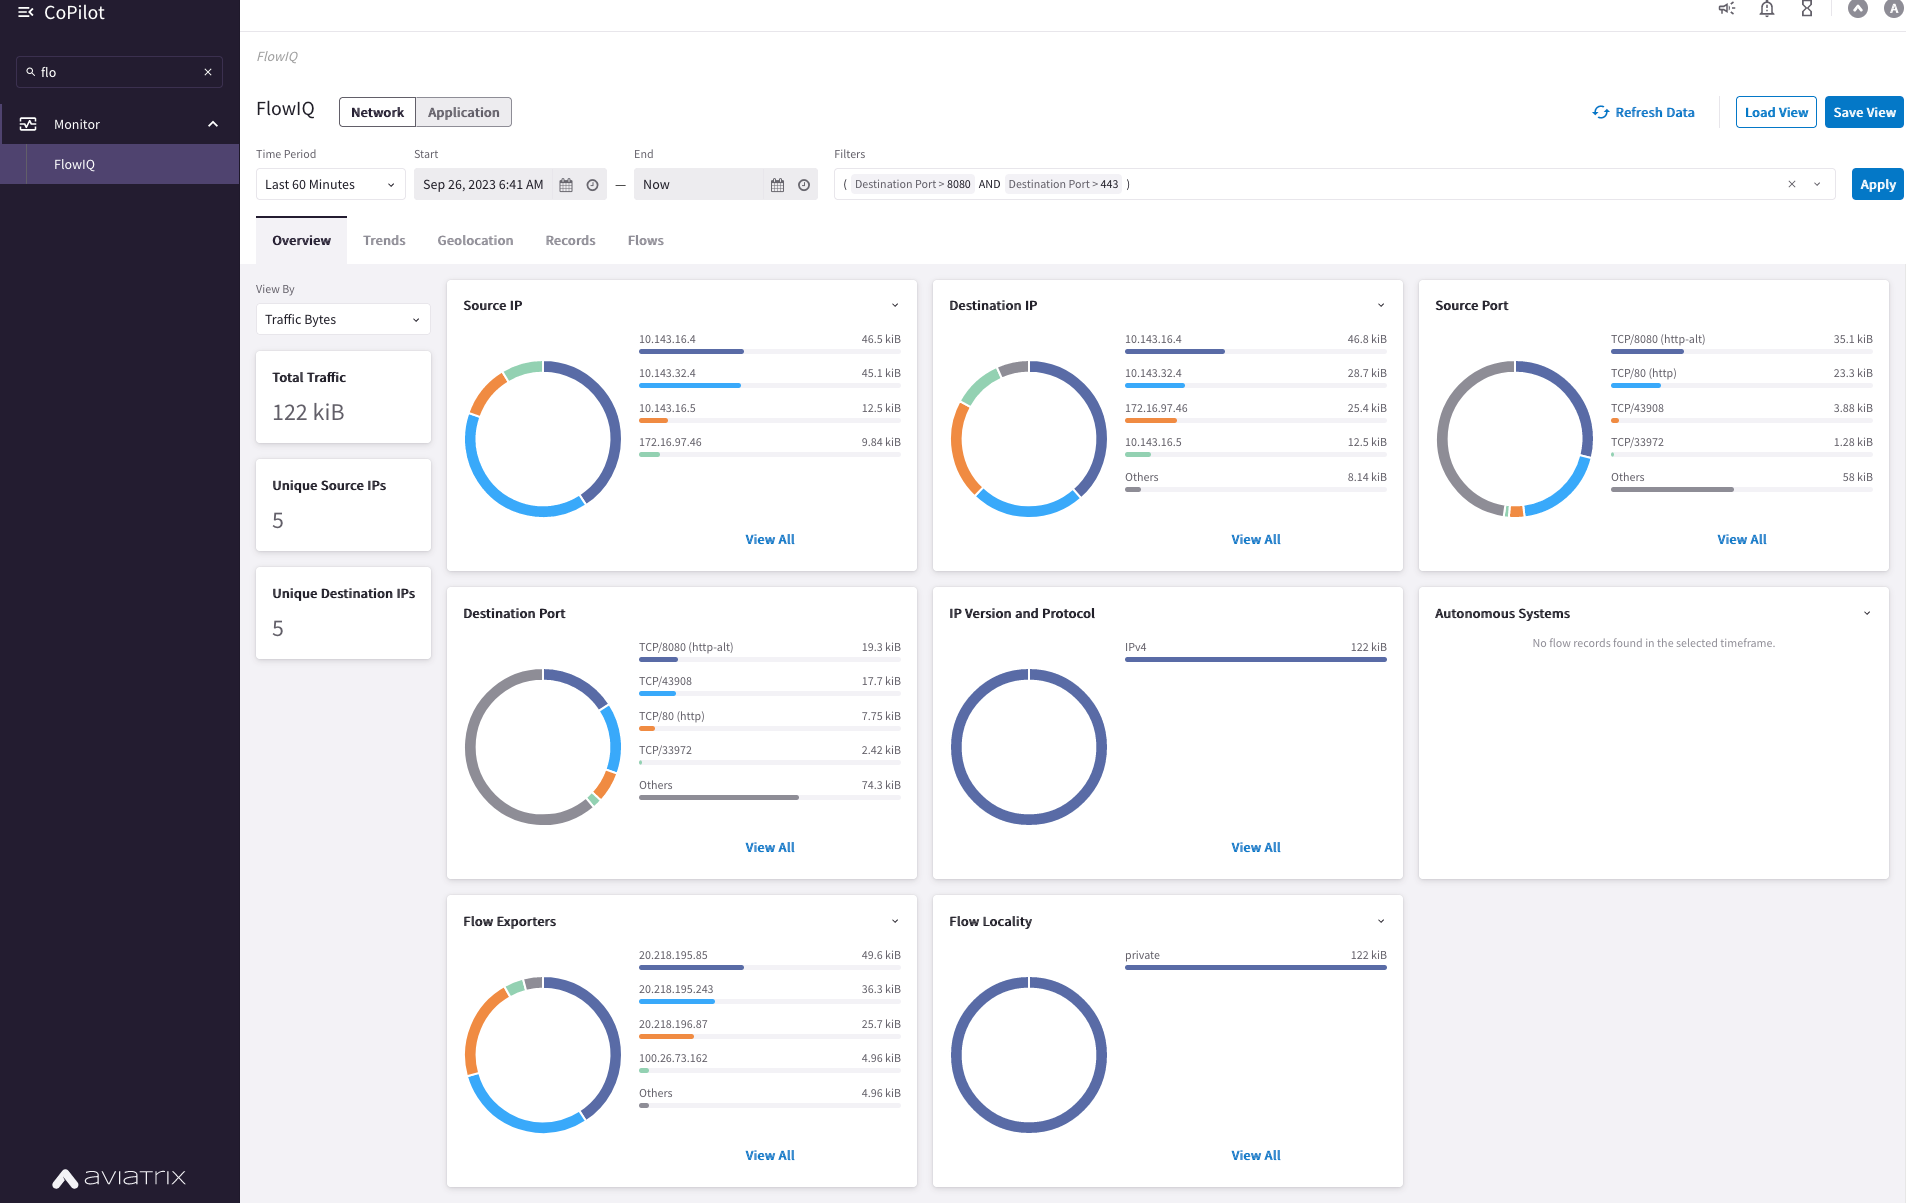
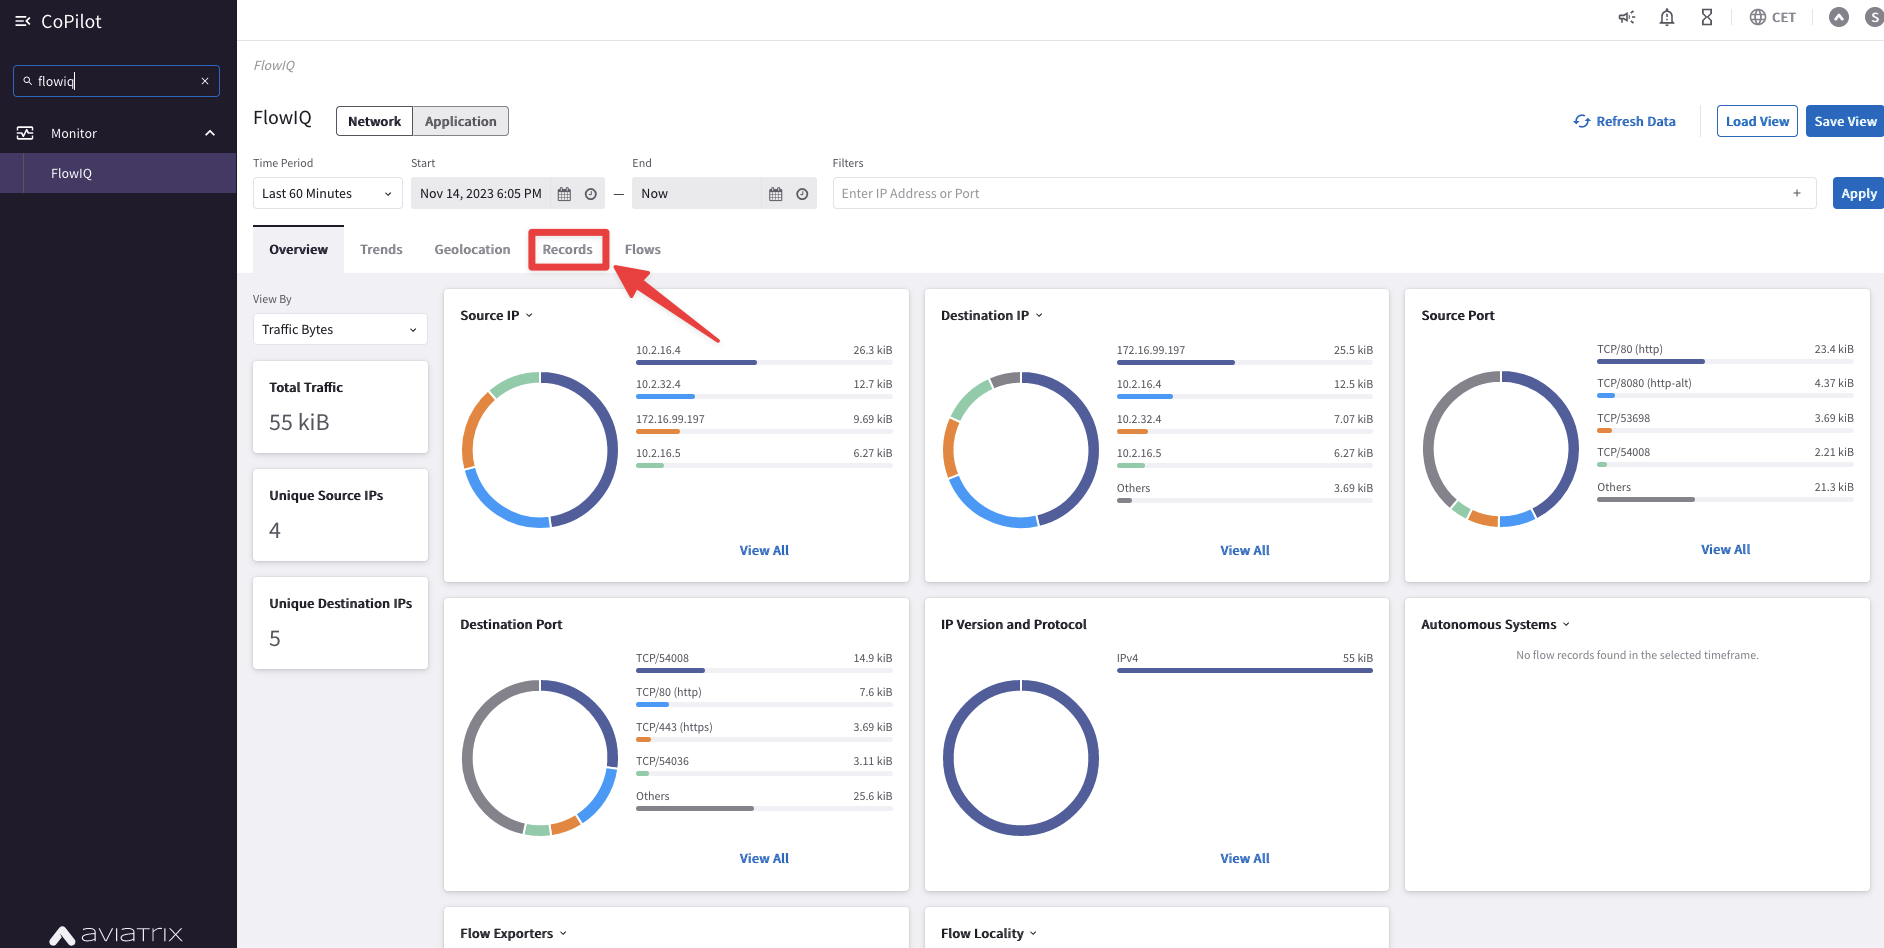
A last update before starting this evening here in Switzerland

diff --git a/ace_associate/docs/lab2.md b/ace_associate/docs/lab2.md
@@ -173,7 +173,7 @@ Since there is no connectivity to AWS, the DB node should not be pingable, due t
 ### Description
 Using CoPilot **FlowIQ** to debug flows
 ### Validate
-1. Use the left hand search bar within CoPilot to locate **_FlowIQ_** 
+1. Use the left hand search bar within CoPilot to locate **_FlowIQ_** and then click on `Records` TAB!
 
 ```{figure} images/flowiq-screen.png
 ---
@@ -182,9 +182,7 @@ align: center
 CoPilot FlowIQ
 ```
 
-Select the **_Records_** tab.
-
-1. Under the `"Filters"` field, click on the **+ symbol** and create the first condition: select **_Destination Port_**, **_equals_** and then port **8080** (traffic from Web to App).
+2. Under the `"Filters"` field, click on the **+ symbol** and create the first condition: select **_Destination Port_**, **_equals_** and then port **8080** (traffic from Web to App).
 
 Do not forget to click on **Apply**.
 
@@ -202,7 +200,7 @@ align: center
 Condition
 ```
 
-2. Click **_Add Condition_** again, make sure to select **_OR_** as boolean condition, select **_Destination Port_**, **equals** and then select port **443** (traffic from App to DB). 
+3. Click **_Add Condition_** again, make sure to select **_OR_** as boolean condition, select **_Destination Port_**, **equals** and then select port **443** (traffic from App to DB). 
 
 ```{figure} images/lab2-addcondition.png
 ---
@@ -218,8 +216,8 @@ align: center
 Two condition with the Boolean OR
 ```
 
-3. In the **_Time Period_** field, select **Last 60 Minutes**.
-2. Add the **_Destination Port_** parameter among the existing columns.
+4. In the **_Time Period_** field, select **Last 60 Minutes**.
+5. Add the **_Destination Port_** parameter among the existing columns.
 
 ```{figure} images/destination-port.png
 ---
@@ -228,7 +226,7 @@ align: center
 Destination Port
 ```
 
-1. Add also the **_TCP Flag Tags_** parameter among the existing columns.
+6. Add also the **_TCP Flag Tags_** parameter among the existing columns.
 
 ```{figure} images/tcp-flag.png
 ---
